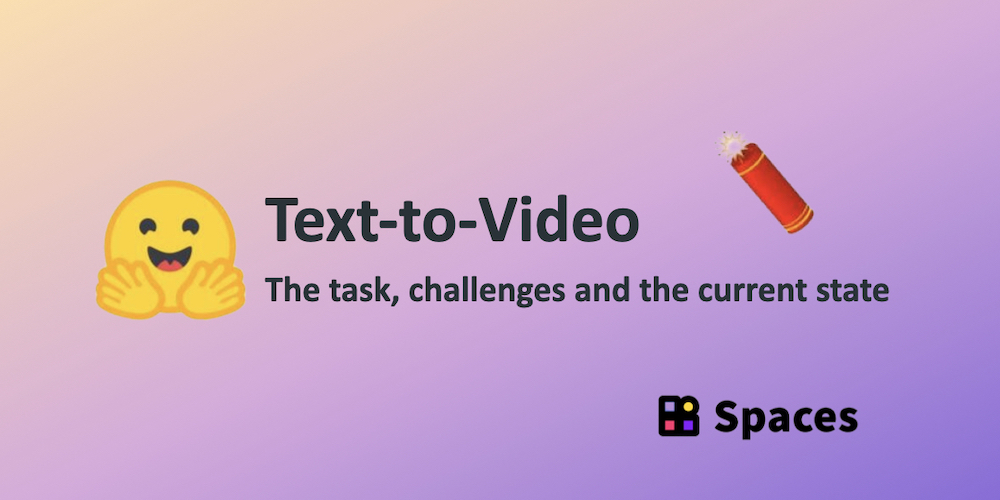
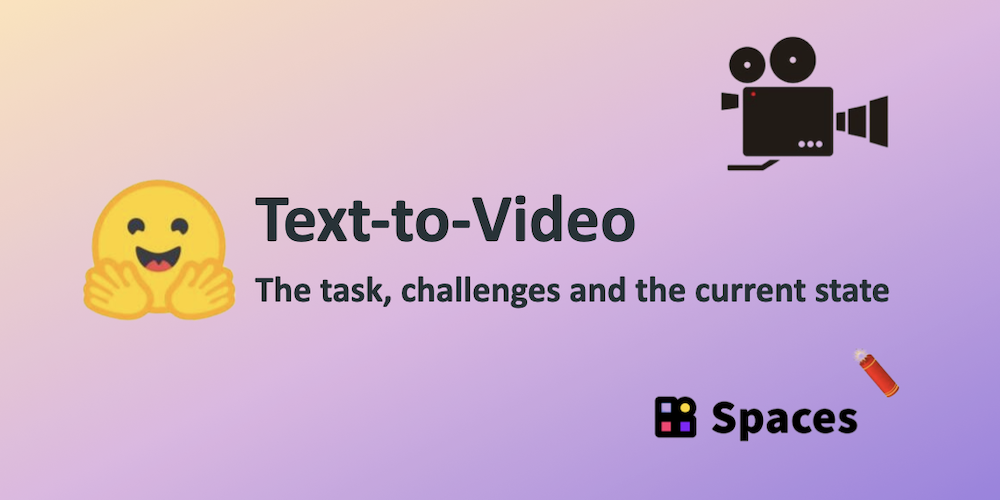
fix typos, update thumbnail

diff --git a/text-to-video.md b/text-to-video.md
@@ -29,9 +29,9 @@ With so many developments happening in such a short time, it may be difficult to
 
 Only two years ago, the first open-vocabulary, high-quality text-to-image generative models emerged. The first wave of text-to-image models, including VQGAN-CLIP, XMC-GAN, and GauGAN2, all had GAN architectures. They were quickly followed by OpenAI's DALL-E, a transformer-based model released in early 2021 that achieved huge success. DALL-E was followed by DALL-E 2 in April 2022, along with a new wave of diffusion models pioneered by Stable Diffusion and Imagen. The huge success of Stable Diffusion led to many productionized diffusion models, such as DreamStudio and RunwayML GEN-1, and integration with existing products such as Midjourney.
 
-Despite the impressive capabilities of diffusion models in text-to-image generation, these models are typically trained on very short clips, meaning they require a computationally expensive and slow sliding window approach to generate long videos. As a result, text-to-video models are notoriously difficult to deploy and scale and remain limited in context and length.
+Despite the impressive capabilities of diffusion models in text-to-image generation, diffusion and non-diffusion based text-to-video models are significantly more limited in their generative capabilities. Text-to-video are typically trained on very short clips, meaning they require a computationally expensive and slow sliding window approach to generate long videos. As a result, these models are notoriously difficult to deploy and scale and remain limited in context and length.
 
-The text-to-video task faces unique challenges on multiple fronts. Some of these main challenges can be listed as follows:  
+The text-to-video task faces unique challenges on multiple fronts. Some of these main challenges include:  
 
 - Computational challenges: Ensuring spatial and temporal consistency across frames creates long-term dependencies that come with a high computation cost, making training such models unaffordable for most researchers.
 - Lack of high-quality datasets: Multi-modal datasets for text-to-video generation are scarce and often sparsely annotated, making it difficult to learn complex movement semantics.
@@ -52,7 +52,7 @@ Like the text-to-image task, early work on text-to-video generation only dates b
     <em>Initial text-to-video models were extremely limited in resolution, context and length, image taken from <a href=https://arxiv.org/abs/1804.08264>TGANs-C</a>.</em>
 </p>
 
-Taking inspiration from the success of large-scale pretrained transformer models in text (GPT-3) and image (DALL-E), the next surge of text-to-video generation research adopted transformer architectures. [Phenaki](https://huggingface.co/papers/2210.02399), [Make-A-Video](https://huggingface.co/papers/2209.14792), [NUWA](https://huggingface.co/papers/2111.12417), [VideoGPT](https://huggingface.co/papers/2104.10157) and [CogVideo](https://huggingface.co/papers/2205.15868) all propose transformer-based frameworks, while works such as [TATS](https://huggingface.co/papers/2204.03638) propose hybrid methods that combine VQGAN for image generation and a time-sensitive transformer module for sequential generation of frames. Out of these second wave of works, Phenaki is particularly interesting as it enables generating arbitrary long videos conditioned on a sequence of prompts, in other words, a story line. Similarly, [NUWA-Infinity](https://huggingface.co/papers/2207.09814) proposes an autoregressive over autoregressive generation mechanism for infinite image and video synthesis from text inputs, enabling the generation of long, HD quality videos. However, neither Phenaki or NUWA models are publicly available.
+Taking inspiration from the success of large-scale pretrained transformer models in text (GPT-3) and image (DALL-E), the next surge of text-to-video generation research adopted transformer architectures. [Phenaki](https://huggingface.co/papers/2210.02399), [Make-A-Video](https://huggingface.co/papers/2209.14792), [NUWA](https://huggingface.co/papers/2111.12417), [VideoGPT](https://huggingface.co/papers/2104.10157) and [CogVideo](https://huggingface.co/papers/2205.15868) all propose transformer-based frameworks, while works such as [TATS](https://huggingface.co/papers/2204.03638) propose hybrid methods that combine VQGAN for image generation and a time-sensitive transformer module for sequential generation of frames. Out of this second wave of works, Phenaki is particularly interesting as it enables generating arbitrary long videos conditioned on a sequence of prompts, in other words, a story line. Similarly, [NUWA-Infinity](https://huggingface.co/papers/2207.09814) proposes an autoregressive over autoregressive generation mechanism for infinite image and video synthesis from text inputs, enabling the generation of long, HD quality videos. However, neither Phenaki or NUWA models are publicly available.
 
 <p align="center">
     <img src="https://huggingface.co/datasets/huggingface/documentation-images/resolve/main/blog/140_text-to-video/phenaki.png" alt="phenaki"><br>
@@ -61,7 +61,7 @@ Taking inspiration from the success of large-scale pretrained transformer models
 
 The third and current wave of text-to-video models features predominantly diffusion-based architectures. The remarkable success of diffusion models in diverse, hyper-realistic, and contextually rich image generation has led to an interest in generalizing diffusion models to other domains such as audio, 3D, and, more recently, video. This wave of models is pioneered by [Video Diffusion Models](https://huggingface.co/papers/2204.03458) (VDM), which extend diffusion models to the video domain, and [MagicVideo](https://huggingface.co/papers/2211.11018), which proposes a framework to generate video clips in a low-dimensional latent space and reports huge efficiency gains over VDM. Another notable mention is [Tune-a-Video](https://huggingface.co/papers/2212.11565), which fine-tunes a pretrained text-to-image model with a single text-video pair and enables changing the video content while preserving the motion. The continuously expanding list of text-to-video diffusion models that followed include [Video LDM](https://huggingface.co/papers/2304.08818), [Text2Video-Zero](https://huggingface.co/papers/2303.13439), [Runway Gen1 and Gen2](https://huggingface.co/papers/2302.03011), and [NUWA-XL](https://huggingface.co/papers/2303.12346).
 
-Text2Video-Zero works in a fashion similar to ControlNet, enabling text-to-video generating and inputting, combining text prompts with pose or edge data to guide the generation, and text-based editing of videos. As implied by its name, Text2Video-Zero is a zero-shot model that combines a trainable motion dynamics module with a pre-trained text-to-image Stable Diffusion model without using any paired text-video data. Similarly to Text2Video-Zero, Runway’s Gen-1 and Gen-2 models enable synthesizing videos guided by content described through text or images. Most of these works are trained on short video clips and rely on autoregressive generation with a sliding window to generate longer videos, inevitably resulting in a context gap. NUWA-XL addresses this issue and proposes a “diffusion over diffusion” method to train models on 3376 frames. Finally, there are open-source, unpublished text-to-video models and frameworks such as Alibaba / DAMO Vision Intelligence Lab’s ModelScope and Tencel’s VideoCrafter.
+Text2Video-Zero is a text-guided video generation and manipulation framework that works in a fashion similar to ControlNet. It can directly generate (or edit) videos based on text inputs, as well as combined text-pose or text-edge data inputs. As implied by its name, Text2Video-Zero is a zero-shot model that combines a trainable motion dynamics module with a pre-trained text-to-image Stable Diffusion model without using any paired text-video data. Similarly to Text2Video-Zero, Runway’s Gen-1 and Gen-2 models enable synthesizing videos guided by content described through text or images. Most of these works are trained on short video clips and rely on autoregressive generation with a sliding window to generate longer videos, inevitably resulting in a context gap. NUWA-XL addresses this issue and proposes a “diffusion over diffusion” method to train models on 3376 frames. Finally, there are open-source text-to-video models and frameworks such as Alibaba / DAMO Vision Intelligence Lab’s ModelScope and Tencel’s VideoCrafter, which haven't been published in peer-reviewed conferences or journals.
 
 ## Datasets
 Like other vision-language models, text-to-video models are typically trained on large paired datasets videos and text descriptions. The videos in these datasets are typically split into short, fixed-length chunks and often limited to isolated actions with a few objects. While this is partly due to computational limitations and partly due to the difficulty of describing video content in a meaningful way, we see that developments in multimodal video-text datasets and text-to-video models are often entwined. While some work focuses on developing better, more generalizable datasets that are easier to learn from, works such as [Phenaki](https://phenaki.video/?mc_cid=9fee7eeb9d#) explore alternative solutions such as combining text-image pairs with text-video pairs for the text-to-video task. Make-a-Video takes this even further by proposing using only text-image pairs to learn what the world looks like and unimodal video data to learn spatio-temporal dependencies in an unsupervised fashion.
@@ -69,7 +69,7 @@ Like other vision-language models, text-to-video models are typically trained on
 These large datasets suffer from similar problems of that of text-image datasets. The most commonly used text-video dataset, [WebVid](https://m-bain.github.io/webvid-dataset/), consists of 10.7 million pairs of text-video pairs (52K video hours) and contains a fair amount of noisy samples with irrelevant video descriptions. Other datasets try to overcome this issue by focusing on specific tasks or domains. For example, the [Howto100M](https://www.di.ens.fr/willow/research/howto100m/) dataset consists of 136M video clips with captions that describe how to perform complex tasks such as cooking, handcrafting, gardening, and fitness step-by-step. Similarly, the [QuerYD](https://www.robots.ox.ac.uk/~vgg/data/queryd/) dataset focuses on the event localization task such that the captions of videos describe the relative location of objects and actions in detail. [CelebV-Text](https://celebv-text.github.io/) is a large-scale facial text-video dataset of over 70K videos to generate videos with realistic faces, emotions, and gestures.
 
 ## Text-to-Video at Hugging Face
-Using Hugging Face Diffusers, you can easily download, run and fine-tune various pretrained text-to-video models by Alibaba / DAMO Vision Intelligence Lab. See a full list of models over [here](https://huggingface.co/damo-vilab). Note that we are currently working on integrating other exciting works into Diffusers and 🤗 Transformers.
+Using Hugging Face Diffusers, you can easily download, run and fine-tune various pretrained text-to-video models, including Text2Video-Zero and ModelScope by [Alibaba / DAMO Vision Intelligence Lab](https://huggingface.co/damo-vilab). We are currently working on integrating other exciting works into Diffusers and 🤗 Transformers.
 
 ### Hugging Face Demos
 At Hugging Face, our goal is to make it easier to use and build upon state-of-the-art research. Head over to our hub to see and play around with Spaces demos contributed by the 🤗 team, countless community contributors and research authors. At the moment, we host demos for [VideoGPT](https://huggingface.co/spaces/akhaliq/VideoGPT), [CogVideo](https://huggingface.co/spaces/THUDM/CogVideo), [ModelScope Text-to-Video](https://huggingface.co/spaces/damo-vilab/modelscope-text-to-video-synthesis), and [Text2Video-Zero](https://huggingface.co/spaces/PAIR/Text2Video-Zero) with many more to come. To see what we can do with these models, let's take a look at the Text2Video-Zero demo. This demo not only illustrates text-to-video generation but also enables multiple other generation modes for text-guided video editing and joint conditional video generation using pose, depth and edge inputs along with text prompts.
@@ -92,7 +92,21 @@ pip install -r requirements.txt
 python app.py
 ```
 
-And that's it! The Modelscope demo is now running locally on your computer. 
+And that's it! The Modelscope demo is now running locally on your computer. Note that the ModelScope text-to-video model is supported in Diffusers and you can directly load and use the model to generate new videos with a few lines of code.
+
+```
+import torch
+from diffusers import DiffusionPipeline, DPMSolverMultistepScheduler
+from diffusers.utils import export_to_video
+
+pipe = DiffusionPipeline.from_pretrained("damo-vilab/text-to-video-ms-1.7b", torch_dtype=torch.float16, variant="fp16")
+pipe.scheduler = DPMSolverMultistepScheduler.from_config(pipe.scheduler.config)
+pipe.enable_model_cpu_offload()
+
+prompt = "Spiderman is surfing"
+video_frames = pipe(prompt, num_inference_steps=25).frames
+video_path = export_to_video(video_frames)
+```
 
 ### Community Contributions and Open Source Text-to-Video Projects
 Finally, there are various open source projects and models that are not on the hub. Some notable mentions are Phil Wang’s (aka lucidrains) unofficial implementations of [Imagen](https://github.com/lucidrains/imagen-pytorch), [Phenaki](https://github.com/lucidrains/phenaki-pytorch), [NUWA](https://github.com/lucidrains/nuwa-pytorch), [Make-a-Video](https://github.com/lucidrains/make-a-video-pytorch) and [Video Diffusion Models](https://github.com/lucidrains/video-diffusion-pytorch). Another exciting project by [ExponentialML](https://github.com/ExponentialML/Text-To-Video-Finetuning) builds on top of 🤗 diffusers to finetune ModelScope Text-to-Video.
